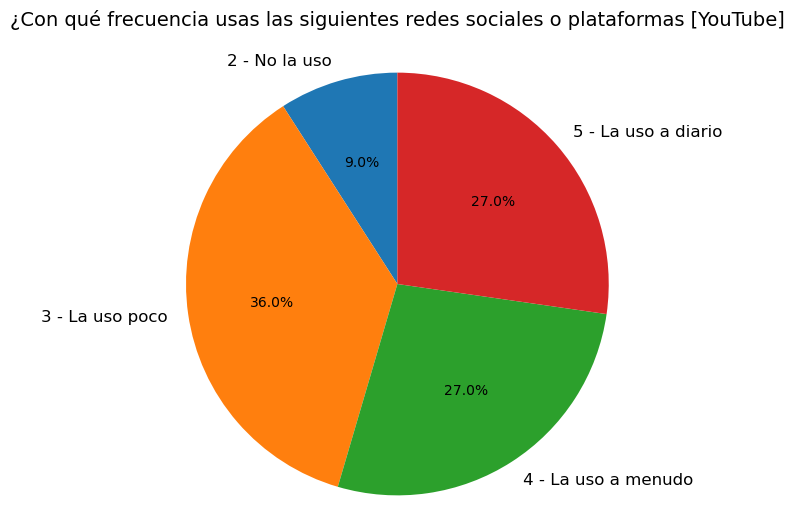
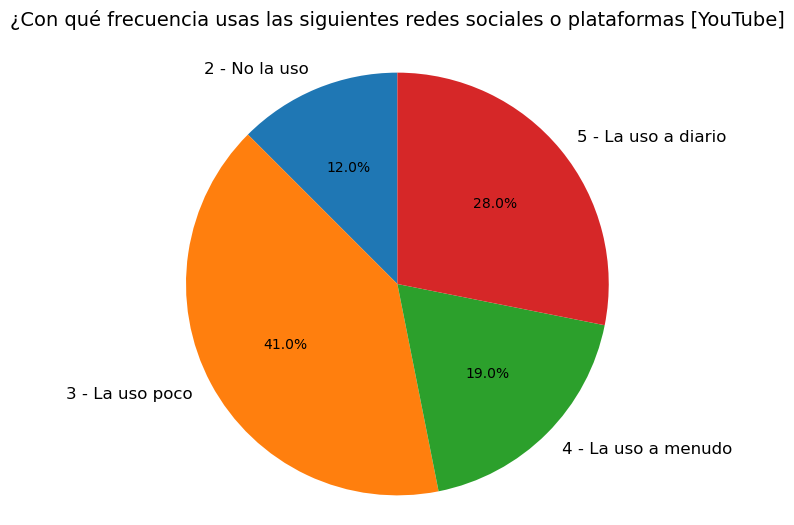
Redes sociales actualizadas

diff --git a/python/main.py b/python/main.py
@@ -945,7 +945,7 @@ survey_comparative(pre,valid_post)
 questions = ["¿Cuántas horas pasas al día en redes sociales?", "¿Con qué frecuencia usas las siguientes redes sociales o plataformas? [TikTok]", "¿Con qué frecuencia usas las siguientes redes sociales o plataformas? [Instagram]", "¿Con qué frecuencia usas las siguientes redes sociales o plataformas? [YouTube]", "¿Con qué frecuencia usas las siguientes redes sociales o plataformas? [WhatsApp]", "¿Con qué frecuencia usas las siguientes redes sociales o plataformas? [Facebook]", "¿Con qué frecuencia usas las siguientes redes sociales o plataformas? [Twitter o X]", "¿Con qué frecuencia usas las siguientes redes sociales o plataformas? [Discord]", "¿Con qué frecuencia usas las siguientes redes sociales o plataformas? [Telegram]", "¿Con qué frecuencia usas las siguientes redes sociales o plataformas? [Snapchat]", "¿Con qué frecuencia usas las siguientes redes sociales o plataformas? [BeReal]", "¿Con qué frecuencia usas las siguientes redes sociales o plataformas? [Reddit]", "¿Con qué frecuencia usas las siguientes redes sociales o plataformas? [Tumblr]", "¿Con qué frecuencia usas las siguientes redes sociales o plataformas? [Pinterest]", "¿Con qué frecuencia usas las siguientes redes sociales o plataformas? [Play Station Network]", "¿Con qué frecuencia usas las siguientes redes sociales o plataformas? [Microsoft Xbox]", "¿Con qué frecuencia usas las siguientes redes sociales o plataformas? [Steam]", "¿Con qué frecuencia usas las siguientes redes sociales o plataformas? [Roblox]"]
 
 for question in questions:
-	df = pd.Series(post[question]).value_counts()
+	df = pd.Series(valid_post[question]).value_counts()
 	df = df.sort_index()
 	# display(df)
 	graphics.display_pie_chart(df.values, df.index, question.replace("?", ""))
@@ -958,7 +958,7 @@ for question in questions:
 questions = ["¿Cómo de acuerdo estás con las siguientes afirmaciones? [El juego es demasiado largo]", "¿Cómo de acuerdo estás con las siguientes afirmaciones? [El juego es aburrido]", "¿Cómo de acuerdo estás con las siguientes afirmaciones? [El juego es fácil de jugar]", "¿Cómo de acuerdo estás con las siguientes afirmaciones? [El juego es educativo]", "¿Cómo de acuerdo estás con las siguientes afirmaciones? [El juego me hace reflexionar]", "¿Cómo de acuerdo estás con las siguientes afirmaciones? [El juego es fácil de usar en clase con los alumnos]", "¿Cómo de acuerdo estás con las siguientes afirmaciones? [Los videojuegos en general pueden ser herramientas educativas]"]
 
 for question in questions:
-	df = pd.Series(post[question]).value_counts()
+	df = pd.Series(valid_post[question]).value_counts()
 	df = df.sort_index()
 	graphics.display_pie_chart(df.values, df.index, question.replace("?", ""))
 
